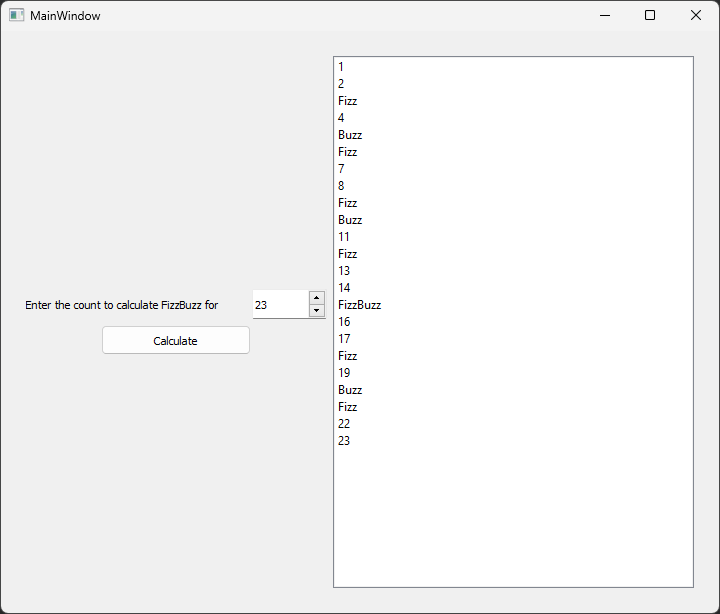
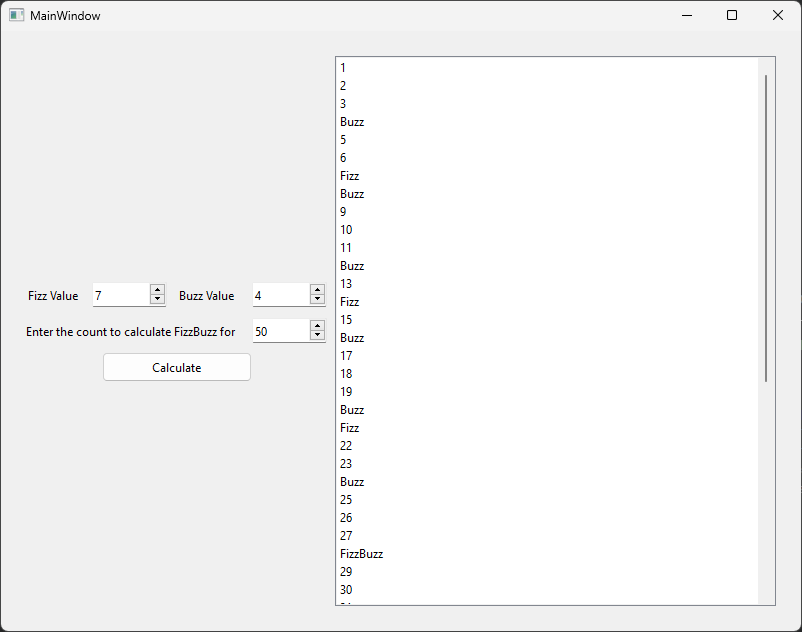
Update READMEs (#4)
* Add part2 of fizzbuzz and refactor to take fizz/buzz values on calculate clicked

* Add inputs for custom fizz and buzz divisors

* Set minimum input value to 1 to avoid divide by 0

* Update FizzBuzz README

* Add README for FizzBuzz-Part2

---------

diff --git a/FizzBuzz-Part2/README.md b/FizzBuzz-Part2/README.md
@@ -1,9 +1,8 @@
-FizzBuzz
-================================================
-Coding Kata: [FizzBuzz on Coding Dojo](https://codingdojo.org/kata/FizzBuzz/)
+# FizzBuzz
+Write a program that prints the numbers from 1 to X. X is a value entered by a user on
+the Qt window. But for multiples of A print “Fizz” instead of the number and for the
+multiples of B print “Buzz”. For numbers which are multiples of both A and B
+print "FizzBuzz". A and B should be entered by a user via the main window.
 
-Qt Interface
-================================================
-https://github.com/Uiluan/QtWorkshop/blob/main/FizzBuzz/Resources/FizzBuzzWithQt.mp4
-
+## Example Output
 ![](Resources/MainWindow.png)

diff --git a/FizzBuzz/README.md b/FizzBuzz/README.md
@@ -1,9 +1,8 @@
-FizzBuzz
-================================================
-Coding Kata: [FizzBuzz on Coding Dojo](https://codingdojo.org/kata/FizzBuzz/)
+# FizzBuzz
+Write a program that prints the numbers from 1 to X. X is a value entered by a user on
+the Qt window. But for multiples of three print “Fizz” instead of the number and for the
+multiples of five print “Buzz”. For numbers which are multiples of both three and five
+print “FizzBuzz “.
 
-Qt Interface
-================================================
-https://github.com/Uiluan/QtWorkshop/blob/main/FizzBuzz/Resources/FizzBuzzWithQt.mp4
-
+## Example Output
 ![](Resources/MainWindow.png)
